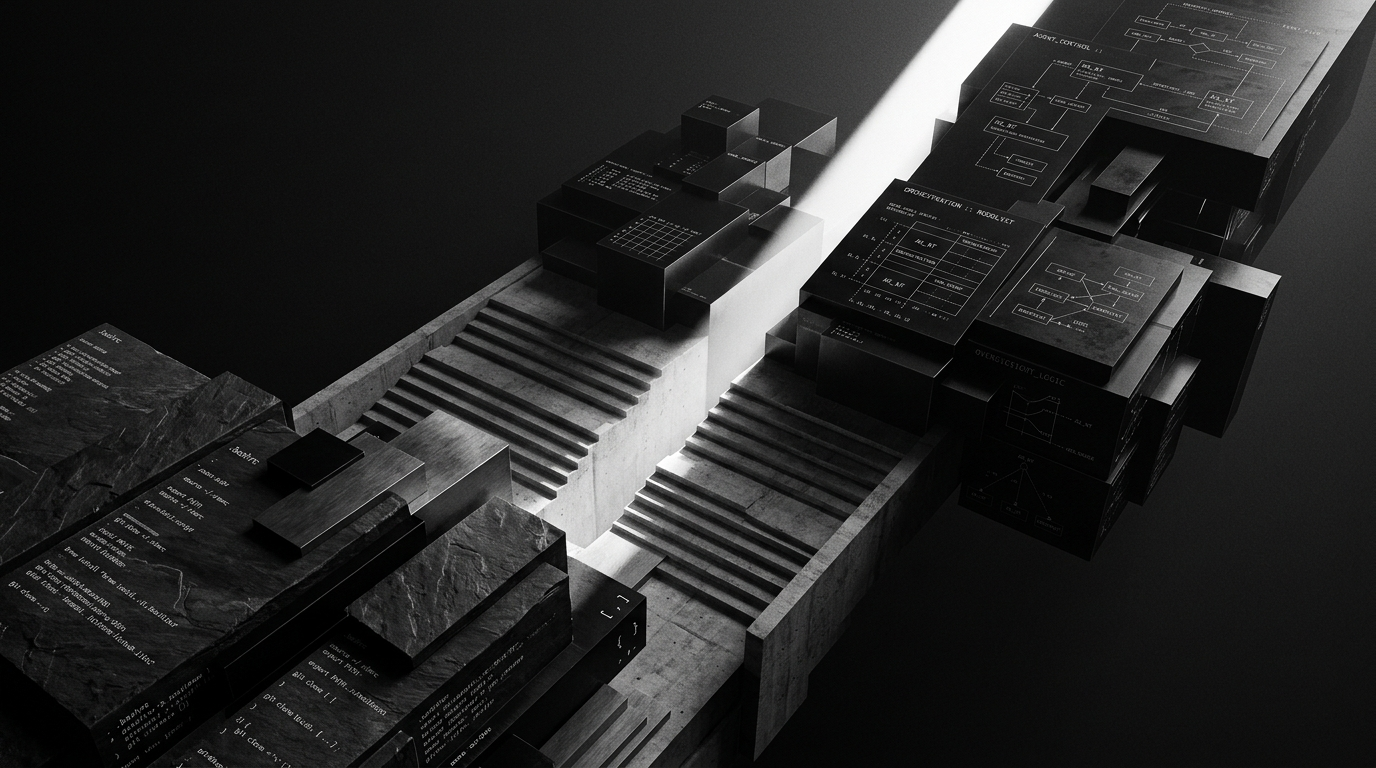
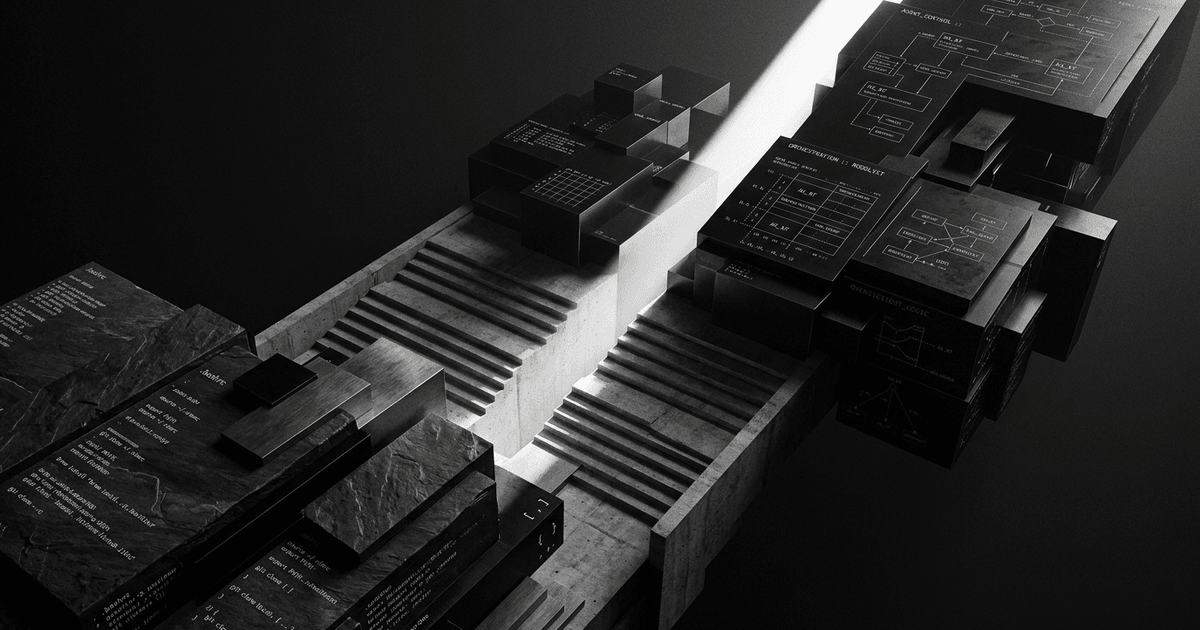
fix(seo): fix twitter card tags, add schema.org JSON-LD, set post ogImage, and update branded social cards

diff --git a/src/pages/og-image/_ogMarkup.ts b/src/pages/og-image/_ogMarkup.ts
@@ -3,13 +3,13 @@ import { siteConfig } from "@/site.config";
 
 // OG image markup, use https://og-playground.vercel.app/ to design your own.
 export const ogMarkup = (title: string, pubDate: string) =>
-	html`<div tw="flex flex-col w-full h-full bg-[#1d1f21] text-[#c9cacc]">
-		<div tw="flex flex-col flex-1 w-full p-10 justify-center">
-			<p tw="text-2xl mb-6">${pubDate}</p>
-			<h1 tw="text-6xl font-bold leading-snug text-white">${title}</h1>
+	html`<div tw="flex flex-col w-full h-full bg-[#121212] text-[#c9cacc] justify-between p-12">
+		<div tw="flex flex-col flex-1 justify-center">
+			<p tw="text-xl mb-4 text-[#888888] font-mono">${pubDate}</p>
+			<h1 tw="text-5xl font-bold leading-tight text-white">${title}</h1>
 		</div>
-		<div tw="flex items-center justify-between w-full p-10 border-t-2 border-[#2bbc89] text-white">
-			<p tw="text-2xl ml-3 font-semibold">${siteConfig.title}</p>
-			<p>by ${siteConfig.author}</p>
+		<div tw="flex items-center justify-between w-full pt-8 border-t border-[#333333] text-white">
+			<p tw="text-2xl font-bold tracking-tight">${siteConfig.title}</p>
+			<p tw="text-xl text-[#888888] font-mono">blog.ryanwu.me</p>
 		</div>
 	</div>`;

diff --git a/src/pages/og-image/_cacheUtil.ts b/src/pages/og-image/_cacheUtil.ts
@@ -5,7 +5,7 @@ import path from "node:path";
 import { fileURLToPath } from "node:url";
 
 // Update/bump version when changing markup in _ogMarkup.ts, or fonts/config in [...slug].png.ts
-const CACHE_VERSION = "v1";
+const CACHE_VERSION = "v2";
 
 // Cache directory, defaults to node_modules/.astro/og-images
 const CACHE_DIR = path.join(fileURLToPath(cacheDir), "og-images");

diff --git a/content/posts/agent-settings-is-the-new-dotfiles.md b/content/posts/agent-settings-is-the-new-dotfiles.md
@@ -3,6 +3,7 @@ title: "Agent Settings Is the New Dotfiles"
 description: "How autonomous agents shift the developer configuration surface from personal shell dotfiles to agent environments, orchestration, and evaluation."
 publishDate: "2026-10-14T15:30:00.000Z"
 tags: ["ai", "agents", "engineering", "tooling", "architecture"]
+ogImage: "/images/agent-settings-new-dotfiles.png"
 ---
 
 ![Agent Settings Is the New Dotfiles](/images/agent-settings-new-dotfiles.png)
